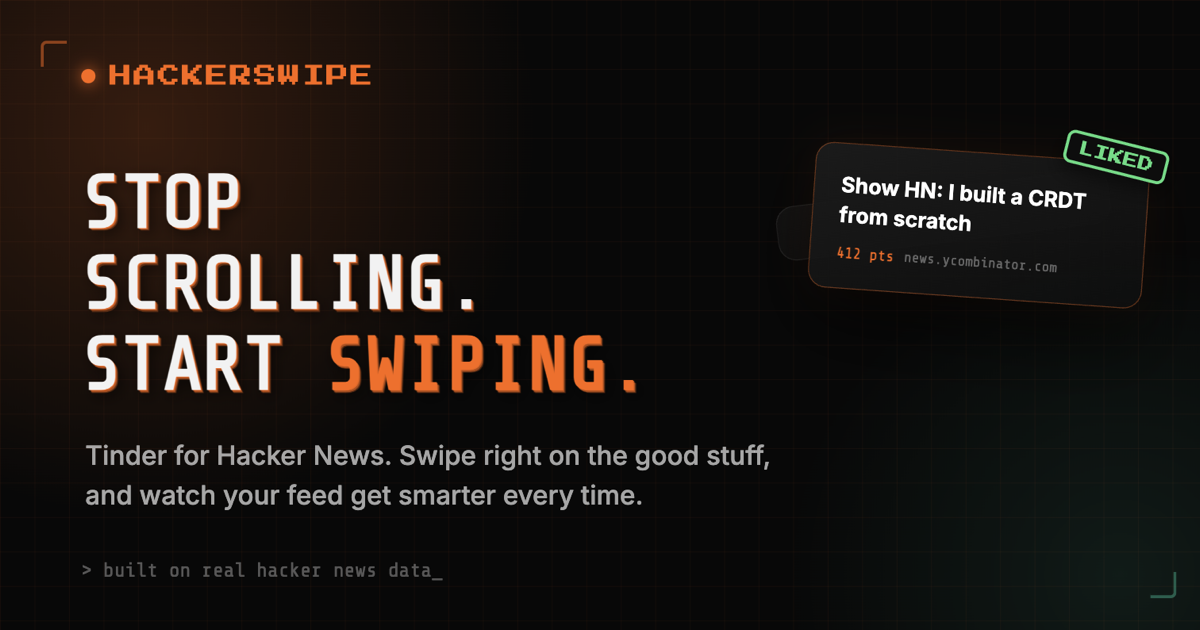
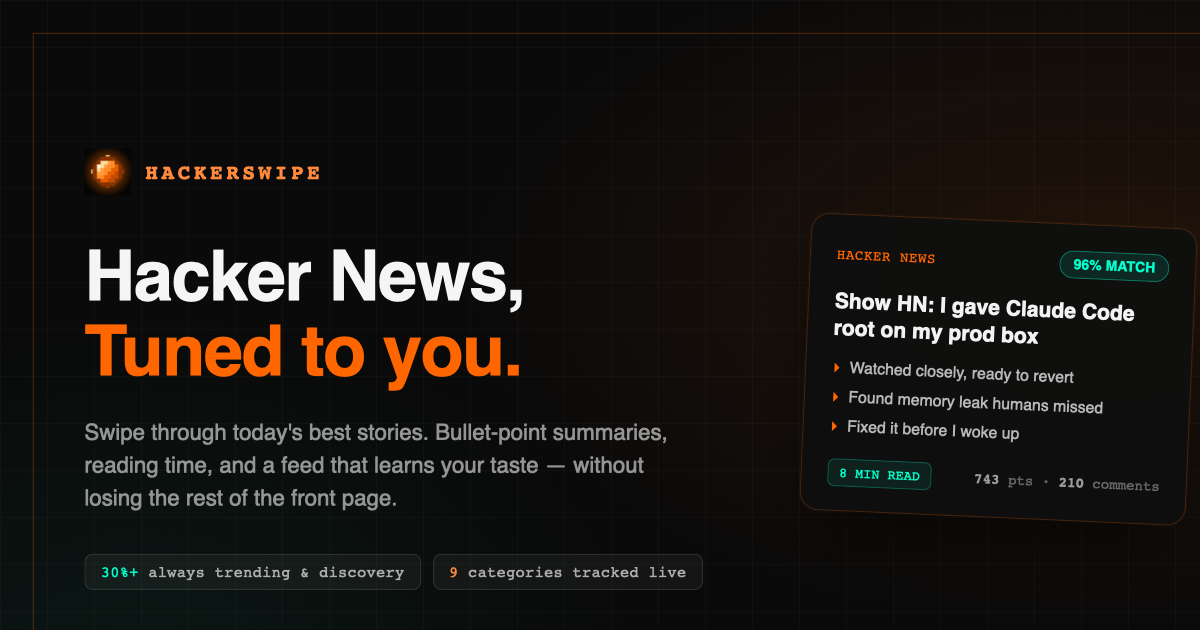
Refresh link-preview card: drop "Stop Scrolling" slogan for "Tuned to you"
New og-image.png and title/meta copy, built from the real card UI,
taste radar, and saved-stories panel instead of the old gamified
mockup and tagline.

diff --git a/index.html b/index.html
@@ -4,8 +4,8 @@
     <meta charset="UTF-8" />
     <meta name="viewport" content="width=device-width, initial-scale=1.0" />
 
-    <title>HackerSwipe: Stop Scrolling. Start Swiping.</title>
-    <meta name="description" content="Tinder for Hacker News. Swipe right on the good stuff, left on the rest, and watch your feed get smarter every time." />
+    <title>HackerSwipe: Hacker News, Tuned to You.</title>
+    <meta name="description" content="Swipe through today's best Hacker News stories. Bullet-point summaries, reading time up front, and a feed that learns your taste — while 30%+ of every deck stays trending and random." />
 
     <!-- Favicon / tab icon -->
     <link rel="icon" type="image/svg+xml" href="/favicon.svg" />
@@ -17,14 +17,14 @@
     <!-- Link preview cards (iMessage, Slack, Discord, X, etc.) -->
     <meta property="og:type" content="website" />
     <meta property="og:url" content="https://hackerswipe.com/" />
-    <meta property="og:title" content="HackerSwipe: Stop Scrolling. Start Swiping." />
-    <meta property="og:description" content="Tinder for Hacker News. Swipe right on the good stuff, left on the rest, and watch your feed get smarter every time." />
+    <meta property="og:title" content="HackerSwipe: Hacker News, Tuned to You." />
+    <meta property="og:description" content="Swipe through today's best Hacker News stories. Bullet-point summaries, reading time up front, and a feed that learns your taste — while 30%+ of every deck stays trending and random." />
     <meta property="og:image" content="https://hackerswipe.com/og-image.png" />
     <meta property="og:image:width" content="1200" />
     <meta property="og:image:height" content="630" />
     <meta name="twitter:card" content="summary_large_image" />
-    <meta name="twitter:title" content="HackerSwipe: Stop Scrolling. Start Swiping." />
-    <meta name="twitter:description" content="Tinder for Hacker News. Swipe right on the good stuff, left on the rest, and watch your feed get smarter every time." />
+    <meta name="twitter:title" content="HackerSwipe: Hacker News, Tuned to You." />
+    <meta name="twitter:description" content="Swipe through today's best Hacker News stories. Bullet-point summaries, reading time up front, and a feed that learns your taste — while 30%+ of every deck stays trending and random." />
     <meta name="twitter:image" content="https://hackerswipe.com/og-image.png" />
 
     <link rel="preconnect" href="https://fonts.googleapis.com" />
